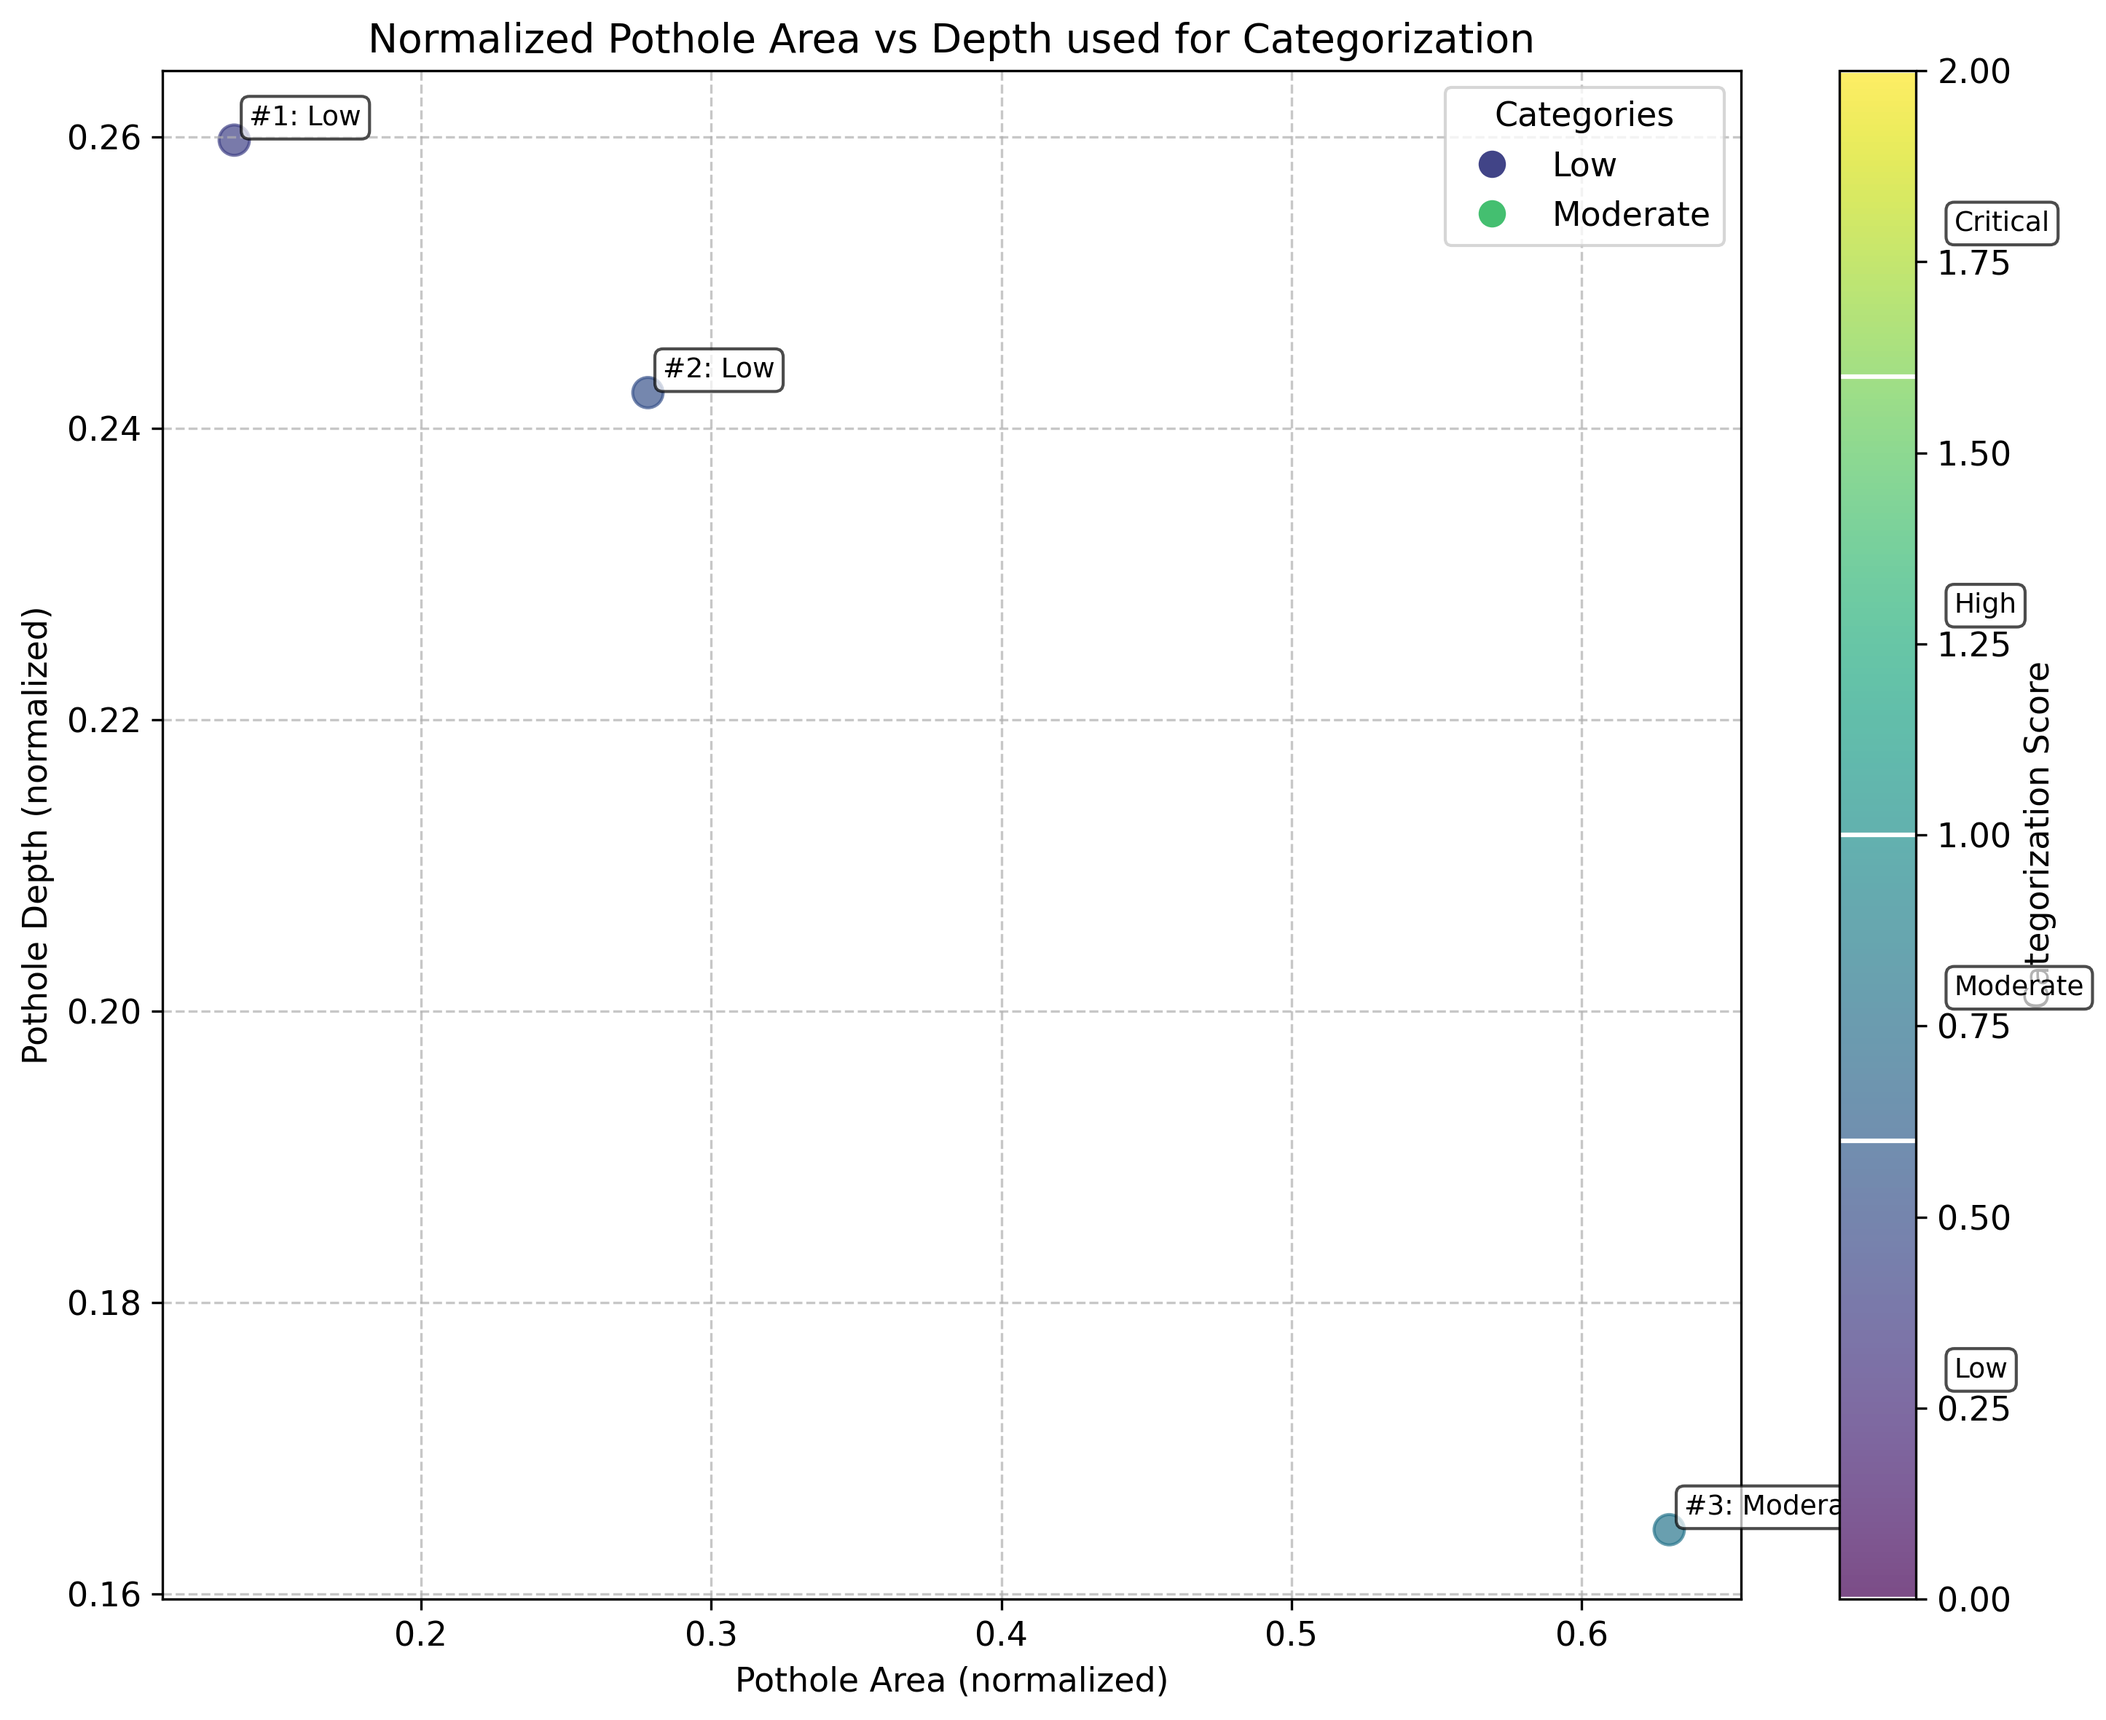
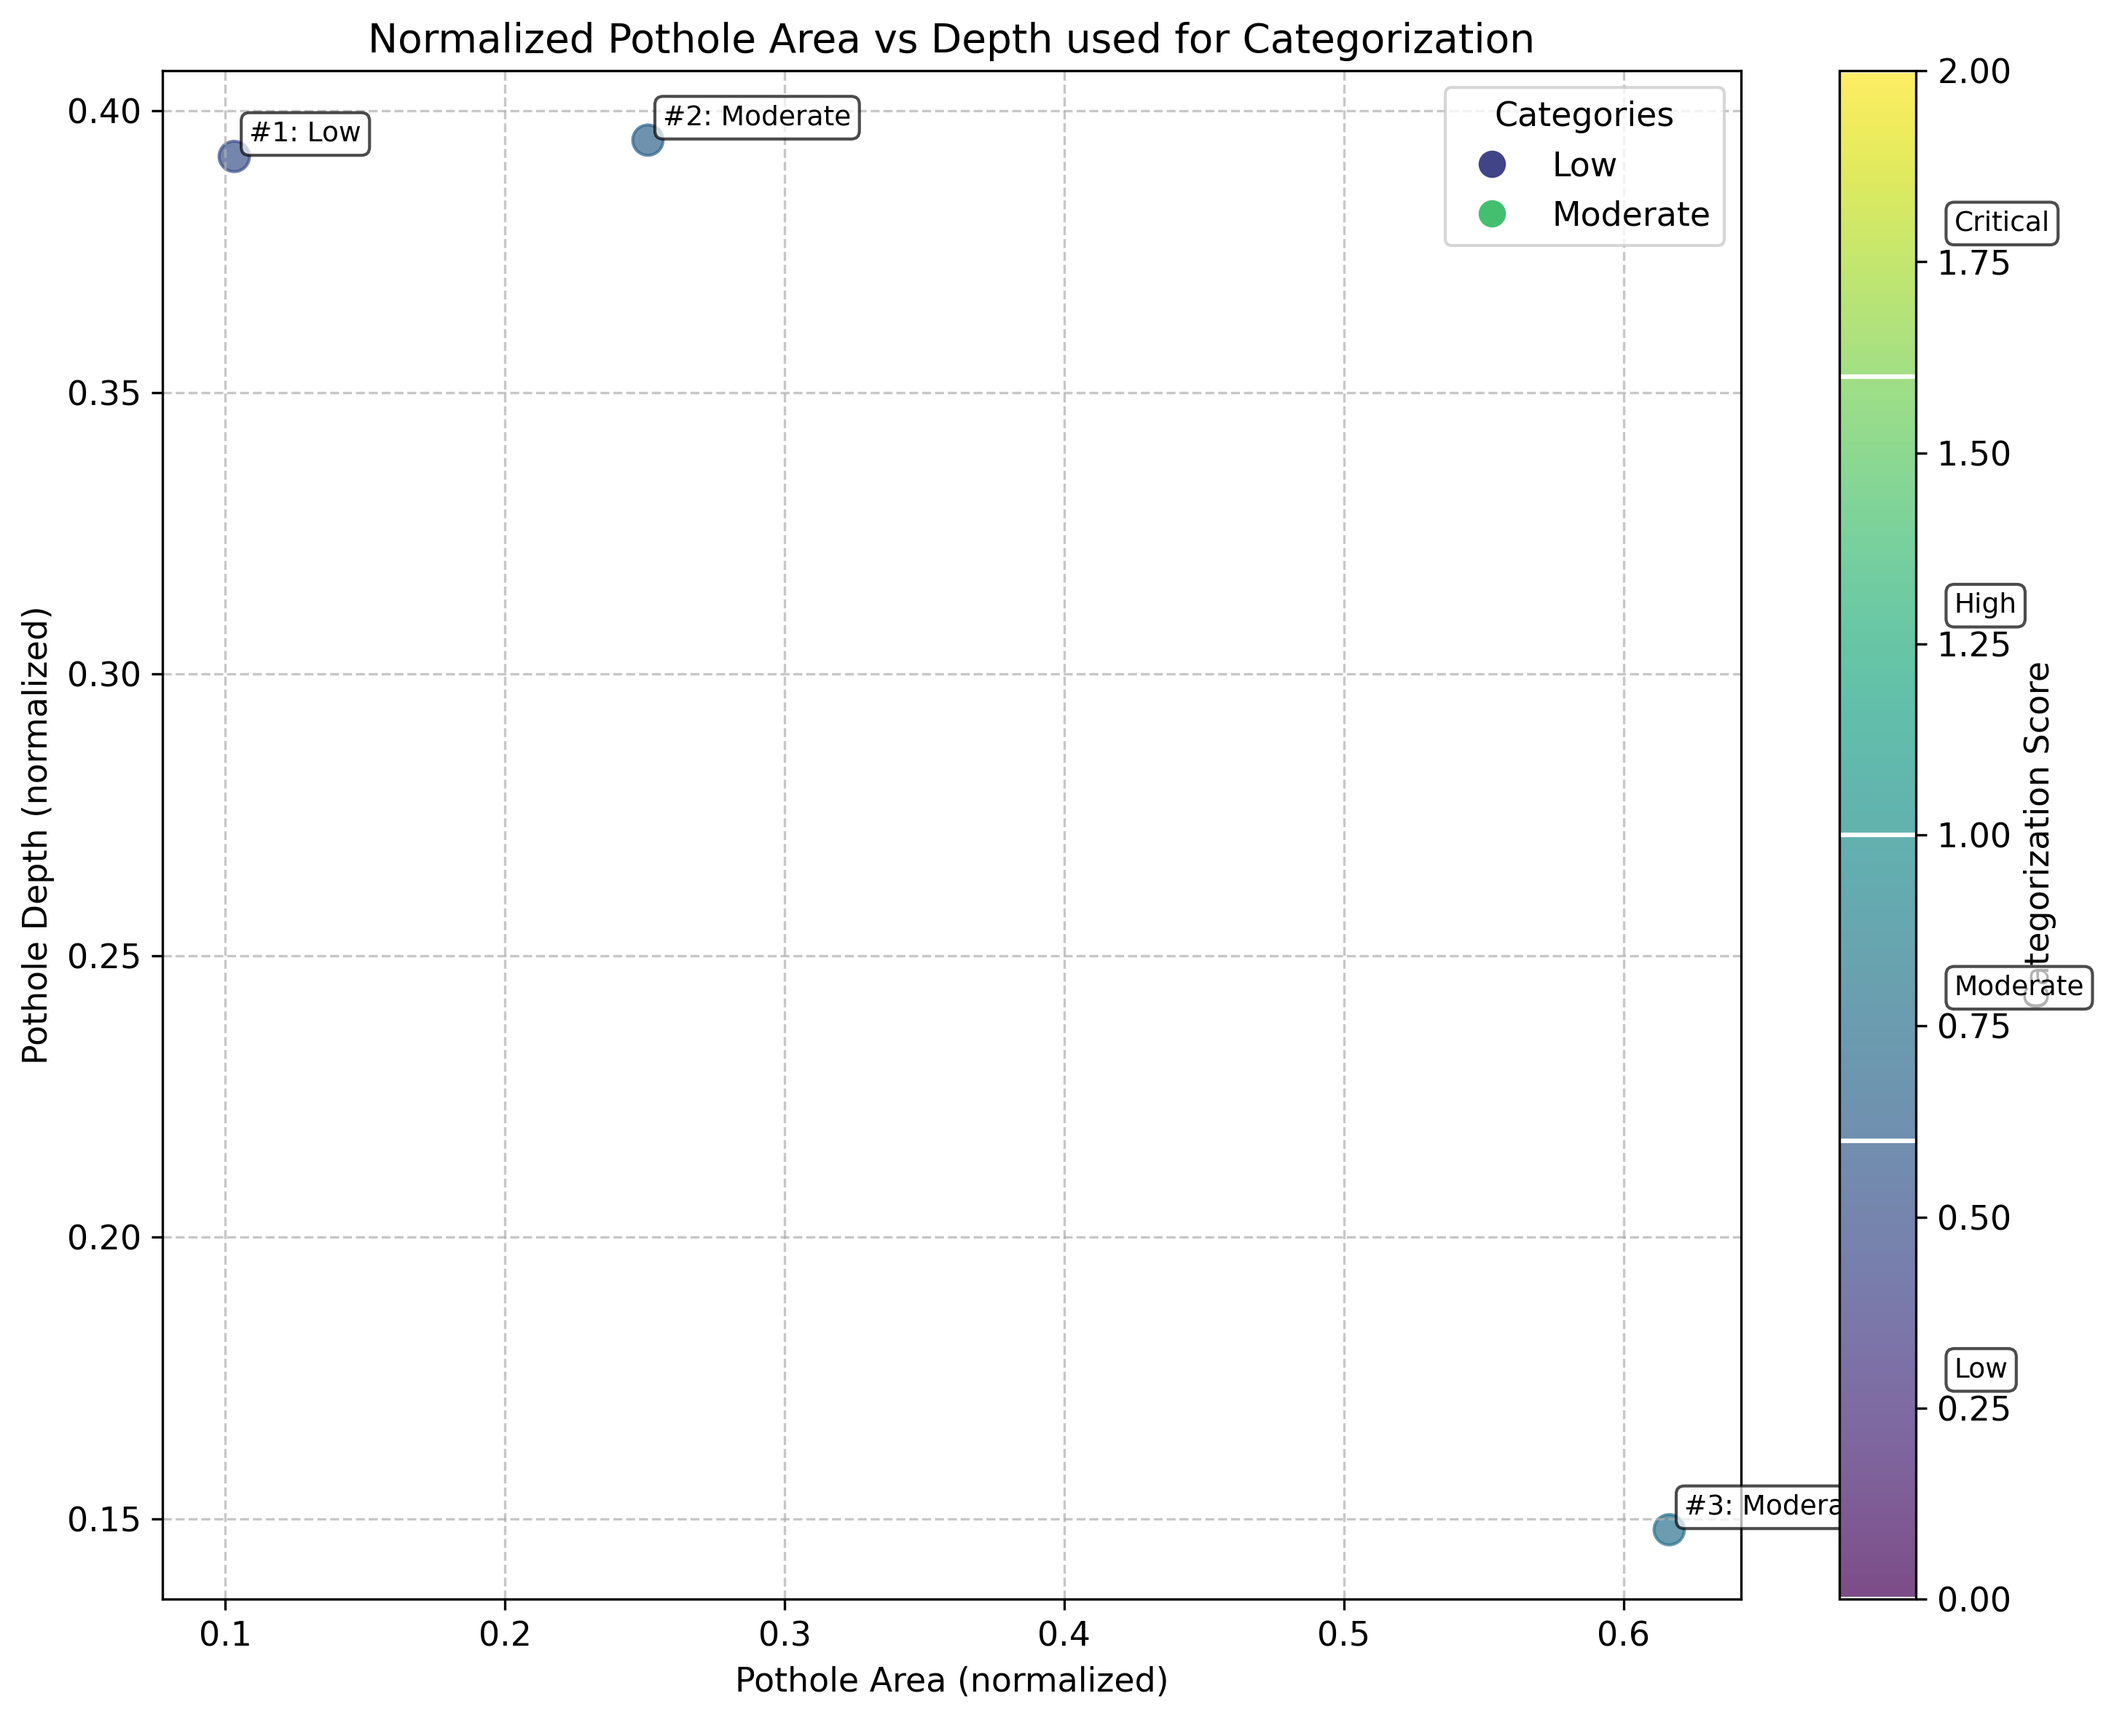
best results so far (depth by resizing images and no extra normalization)

diff --git a/pipeline/pothole_categorization_stage.py b/pipeline/pothole_categorization_stage.py
@@ -51,32 +51,25 @@ class PotholeCategorizationStage:
                 
 
                 ##### calculate the MAX area taking into account the scaling factor
-                max_width = img_width/2
-                max_height = img_height/2
-                max_area = max_width * max_height # assuming the biggest pothole can be half of the images
-                max_area_y_distance_middle_pothole = max_height/2 # y distance in pixels to middle of bounding box
+                # max_width = img_width/2
+                # max_height = img_height/2
+                # max_area = max_width * max_height # assuming the biggest pothole can be half of the images
+                # max_area_y_distance_middle_pothole = max_height/2 # y distance in pixels to middle of bounding box
 
-                scaling_factor = a/(b + c*max_area_y_distance_middle_pothole + d*(max_area_y_distance_middle_pothole**2))
+                # scaling_factor = a/(b + c*max_area_y_distance_middle_pothole + d*(max_area_y_distance_middle_pothole**2))
                 max_area_final = 2.5
-                print(f"Max Scaling Factor: {scaling_factor}")
-                print(f"Max Area Final: {max_area_final}")
 
                 ##### calculate the MIN area taking into account the scaling factor
-                min_width = min_area_bot_right_coord[0] - min_area_top_left_coord[0] # using the min_area coordinates
-                min_height = min_area_bot_right_coord[1] - min_area_top_left_coord[1]
-                min_area = min_width * min_height
-                min_area_y_distance_middle_pothole = (min_area_top_left_coord[1] + min_area_bot_right_coord[1]) / 2
+                # min_width = min_area_bot_right_coord[0] - min_area_top_left_coord[0] # using the min_area coordinates
+                # min_height = min_area_bot_right_coord[1] - min_area_top_left_coord[1]
+                # min_area = min_width * min_height
+                # min_area_y_distance_middle_pothole = (min_area_top_left_coord[1] + min_area_bot_right_coord[1]) / 2
 
-                scaling_factor = a/(b + c*min_area_y_distance_middle_pothole + d*(min_area_y_distance_middle_pothole**2))
-                min_area_final = 0.01
-                print(f"Min Scaling Factor: {scaling_factor}")
-                print(f"Min Area Final: {min_area_final}")
+                # scaling_factor = a/(b + c*min_area_y_distance_middle_pothole + d*(min_area_y_distance_middle_pothole**2))
+                min_area_final = 0.1
 
                 ##### calculate the normalized area => [0, 1]
                 area_norm = (estimated_area - min_area_final) / (max_area_final - min_area_final)
-                print(f"Max Area: {max_area}, Min Area: {min_area}")
-                print(f"Estimated Area: {estimated_area}, Area Norm: {area_norm}\n")
-
 
                 """
                 DEPTH VALUE NORMALIZATION
@@ -85,11 +78,10 @@ class PotholeCategorizationStage:
                 # Modified sigmoid function is bounded between 0 and 1 for the positive
                 # values of x. Default sigmoid function is bounded between 0 and 1 for
                 # the negative and positive values of x. 
-                depth_norm = 2 * (1 / (1+math.exp(-depth)) - 0.5) # highest value of 1
+                # depth_norm = 2 * (1 / (1+math.exp(-depth)) - 0.5) # highest value of 1
 
                 # ADD DEPTH AND AREA NORMALIZED VALUES TO GET THE TOTAL SCORE
-                total_score = depth_norm + area_norm
-                print(f"Area Norm: {area_norm}, Depth Norm: {depth_norm}, Total Score: {total_score}")
+                total_score = depth + area_norm
 
             # Categorization of the potholes based on the normalized area and depth values
             if 1.6 <= total_score <= 2.0:
@@ -106,6 +98,6 @@ class PotholeCategorizationStage:
             pothole_categories.append(category)
             pothole_scores.append(total_score)
             normalized_areas.append(area_norm)
-            normalized_depths.append(depth_norm)
+            normalized_depths.append(depth)
 
         return { 'categories' : pothole_categories, 'scores' : pothole_scores , 'normalized_areas': normalized_areas, 'normalized_depths': normalized_depths}

diff --git a/pipeline/depth_estimation_stage.py b/pipeline/depth_estimation_stage.py
@@ -1,3 +1,4 @@
+import math
 import os
 import cv2
 import numpy as np
@@ -12,6 +13,31 @@ class DepthEstimationStage:
     
     def __init__(self, depth_estimator):
         self.depth_estimator = depth_estimator
+
+    def resize_with_padding(self, image, target_size):
+        target_width, target_height = target_size
+        h, w = image.shape[:2]
+        
+        # Calculate scaling factor to preserve aspect ratio
+        scale = min(target_width / w, target_height / h)
+        
+        # Calculate new dimensions
+        new_w, new_h = int(w * scale), int(h * scale)
+        
+        # Resize the image
+        resized = cv2.resize(image, (new_w, new_h), interpolation=cv2.INTER_AREA)
+        
+        # Create a black canvas of target size
+        result = np.zeros((target_height, target_width, 3), dtype=np.uint8)
+        
+        # Calculate padding
+        pad_w = (target_width - new_w) // 2
+        pad_h = (target_height - new_h) // 2
+        
+        # Place the resized image on the canvas
+        result[pad_h:pad_h+new_h, pad_w:pad_w+new_w] = resized
+        
+        return result
     
     def process(self, img_path, filtered_detections, pothole_areas, percentile_filter, percentile_low_value, percentile_high_value):
         print(f"[Stage 5] Estimating depth of the potholes in {os.path.basename(img_path)}")
@@ -32,9 +58,14 @@ class DepthEstimationStage:
                 x2, y2 = min(image.shape[1], int(x2)), min(image.shape[0], int(y2)) # make sure x2 and y2 are within image bounds
                 
                 cropped_pothole = image[y1:y2, x1:x2]
-                cropped_potholes.append(cropped_pothole)
+                # cropped_potholes.append(cropped_pothole)
 
-                depth_map = self.depth_estimator.detect(cropped_pothole) # perform depth estimation with DepthAnythingV2 model
+                # Resize the cropped pothole to the target size
+                resized_pothole = cv2.resize(cropped_pothole, (512, 256), interpolation=cv2.INTER_AREA)
+                # resized_pothole = self.resize_with_padding(cropped_pothole, (512, 512))
+                cropped_potholes.append(resized_pothole)
+
+                depth_map = self.depth_estimator.detect(resized_pothole) # perform depth estimation with DepthAnythingV2 model
                 depth_maps.append(depth_map)
 
                 if percentile_filter: # use percentiles to filter out outliers
@@ -50,7 +81,8 @@ class DepthEstimationStage:
                 # Normalize the depth by dividing the relative depth by the square root of the area
                 # Or else bigger potholes will have higher depth values than smaller potholes 
                 # regardless of the actual depth of the pothole.
-                relative_depth_divided_area = (relative_depth / np.sqrt(pothole_areas[i])) / 1000
+                relative_depth_divided_area = (relative_depth / np.cbrt(pothole_areas[i])) / 1000
+                # math.sqrtrroot(pothole_areas[i])
                 relative_depths_divided_area.append(relative_depth_divided_area)
 
                 # print('Relative Depth:', relative_depth)

diff --git a/pipeline/area_estimation_stage.py b/pipeline/area_estimation_stage.py
@@ -51,7 +51,7 @@ class AreaEstimationStage:
 
                 # elif self.resolution == (1280, 720):
                 
-                area = x_scaling_factor/2 * y_scaling_factor * bounding_box_area * 100000
+                area = x_scaling_factor * y_scaling_factor * bounding_box_area * 100000
                 pothole_areas.append(area)
             else:
                 pothole_areas.append(-1) # -1 means pothole is not on the road
